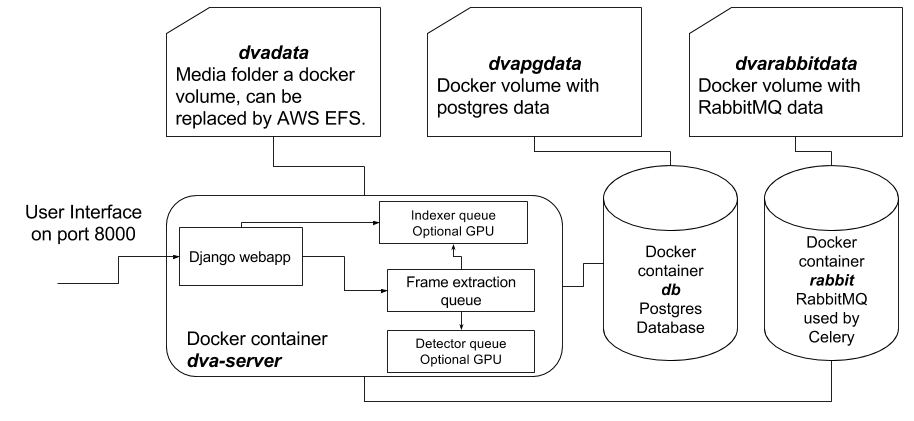
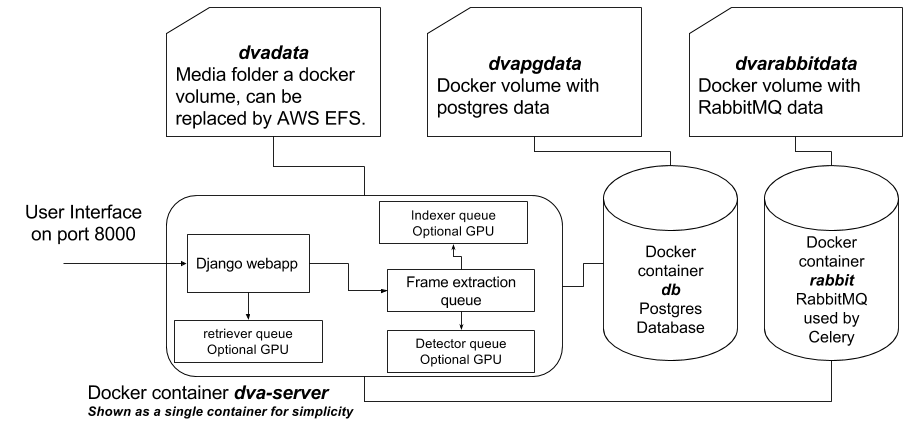
New seperate queue for retriever ensuring that queries are not "blocked" on videos or dataset being indexed  further Queries themself create a child video object allowing future queries to be queried against past queries if "required" However this is disabled by default.

diff --git a/templates/dvaapp/video_list.html b/templates/dvaapp/video_list.html
@@ -49,7 +49,7 @@
                 <tbody>
                 {% for v in video_list %}
                     <tr>
-                        <td>{%  if v.dataset %}Dataset {% else %}Video {% endif %}</td>
+                        <td>{%  if v.dataset and v.query %} Query {% elif v.dataset %} Dataset {% else %}Video {% endif %}</td>
                         <td>{{ v.name }} </td>
                         <td class="text-right">{{ v.length_in_seconds }} </td>
                         <td class="text-right">{{ v.frames }} </td>
@@ -57,7 +57,11 @@
                         <td class="text-right">{{ v.height }} </td>
                         <td class="text-right">{{ v.width }} </td>
                         <td class="text-center">{{ v.created }}</td>
-                        <td class="text-center"><a href="/videos/{{ v.pk }}">view</a></td>
+                        {% if v.query %}
+                            <td class="text-center"><a href="/queries/{{ v.parent_query.pk }}">view</a></td>
+                        {% else %}
+                            <td class="text-center"><a href="/videos/{{ v.pk }}">view</a></td>
+                        {% endif %}
                         <td>{%  if v.youtube_video %}<a href="{{ v.url }}" target="_blank">{{ v.url }}</a>{% endif %}</td>
                     </tr>
                 {% endfor %}

diff --git a/templates/status.html b/templates/status.html
@@ -120,10 +120,10 @@
     <div class="col-lg-6">
         <div class="box">
             <div class="box-header with-border">
-            <h3>Fab log</h3>
+            <h3>Retriever log</h3>
             </div>
             <div class="box-body">
-                <textarea style="width:100%;height:250px">{{ fab_log }}</textarea>
+                <textarea style="width:100%;height:250px">{{ retriever_log }}</textarea>
             </div>
         </div>
     </div>

diff --git a/dvaapp/views.py b/dvaapp/views.py
@@ -16,12 +16,22 @@ def search(request):
         query = Query()
         query.save()
         primary_key = query.pk
+        dv = Video()
+        dv.name = 'query_{}'.format(query.pk)
+        dv.dataset = True
+        dv.query = True
+        dv.parent_query = query
+        dv.save()
+        create_video_folders(dv)
         image_url = request.POST.get('image_url')
         image_data = base64.decodestring(image_url[22:])
         query_path = "{}/queries/{}.png".format(settings.MEDIA_ROOT,primary_key)
+        query_frame_path = "{}/{}/frames/0.png".format(settings.MEDIA_ROOT,dv.pk)
         with open(query_path,'w') as fh:
             fh.write(image_data)
-        result = query_by_image.apply_async(args=[primary_key],queue=settings.Q_INDEXER)
+        with open(query_frame_path,'w') as fh:
+            fh.write(image_data)
+        result = query_by_image.apply_async(args=[primary_key],queue=settings.Q_RETRIEVER)
         user = request.user if request.user.is_authenticated() else None
         query.task_id = result.task_id
         query.user = user
@@ -34,7 +44,6 @@ def search(request):
                     r['url'] = '/media/{}/frames/{}.jpg'.format(r['video_primary_key'],r['frame_index'])
                     results.append(r)
         return JsonResponse(data={'task_id':result.task_id,'primary_key':primary_key,'results':results})
-
 
 
 def index(request):
@@ -166,18 +175,23 @@ def status(request):
     context['query_count'] = Query.objects.count()
     context['events'] = TEvent.objects.all()
     context['detection_count'] = Detection.objects.count()
+
     try:
-        context['indexer_log'] = file("logs/qindexer.log").read()
+        context['indexer_log'] = file("logs/{}.log".format(settings.Q_INDEXER)).read()
     except:
         context['indexer_log'] = ""
     try:
-        context['detector_log'] = file("logs/qdetector.log").read()
+        context['detector_log'] = file("logs/{}.log".format(settings.Q_DETECTOR)).read()
     except:
         context['detector_log'] = ""
     try:
-        context['extract_log'] = file("logs/qextract.log").read()
+        context['extract_log'] = file("logs/{}.log".format(settings.Q_EXTRACTOR)).read()
     except:
         context['extract_log'] = ""
+    try:
+        context['retriever_log'] = file("logs/{}.log".format(settings.Q_RETRIEVER)).read()
+    except:
+        context['retriever_log'] = ""
     try:
         context['fab_log'] = file("logs/fab.log").read()
     except:

diff --git a/fabfile.py b/fabfile.py
@@ -104,9 +104,7 @@ def server():
 def start_server_container(test=False):
     local('sleep 60')
     migrate()
-    local('python utils.py startq extractor &')
-    local('python utils.py startq indexer &')
-    local('python utils.py startq detector &')
+    launch_queues(True)
     if test:
         ci()
     local('python manage.py runserver 0.0.0.0:8000')
@@ -123,9 +121,7 @@ def start_server_container_gpu(test=False):
     local("python manage.py collectstatic --no-input")
     local("chmod 0777 -R dva/staticfiles/")
     local("chmod 0777 -R dva/media/")
-    local('python utils.py startq extractor 2 &') # on GPU machines use more extractors
-    local('python utils.py startq indexer &')
-    local('python utils.py startq detector &')
+    launch_queues(True)
     if test:
         ci()
     local('supervisord -n')
@@ -165,10 +161,7 @@ def quick_test(detection=False):
     clean()
     create_super()
     local('python utils.py test')
-    local('python utils.py startq extractor &')
-    local('python utils.py startq indexer &')
-    if detection:
-        local('python utils.py startq detector &')
+    launch_queues(detection)
 
 @task
 def test_backup():
@@ -180,3 +173,11 @@ def test_backup():
 @task
 def create_super():
     local('echo "from django.contrib.auth.models import User; User.objects.create_superuser(\'akshay\', \'akshay@test.com\', \'super\')" | python manage.py shell')
+
+@task
+def launch_queues(detection=False):
+    local('python utils.py startq extractor &')
+    local('python utils.py startq indexer &')
+    local('python utils.py startq retriever &')
+    if detection:
+        local('python utils.py startq detector &')

diff --git a/utils.py b/utils.py
@@ -10,6 +10,7 @@ USAGE = """
 'python utils.py startq indexer'
 'python utils.py startq extractor 3'
 'python utils.py startq detector'
+'python utils.py startq retriever'
 'python utils.py backup'
 'python utils.py restore /path/to/backup_12354668.zip'
 """
@@ -22,9 +23,10 @@ if __name__ == '__main__':
     from dvaapp.models import Video
     from dvaapp.tasks import extract_frames, perform_indexing, perform_detection
     media_dir = settings.MEDIA_ROOT
-    Q_INDEXER = dva.settings.Q_INDEXER
-    Q_EXTRACTOR = dva.settings.Q_EXTRACTOR
-    Q_DETECTOR = dva.settings.Q_DETECTOR
+    Q_INDEXER = settings.Q_INDEXER
+    Q_EXTRACTOR = settings.Q_EXTRACTOR
+    Q_DETECTOR = settings.Q_DETECTOR
+    Q_RETRIEVER = settings.Q_RETRIEVER
     if len(sys.argv) == 1:
         print USAGE
     elif sys.argv[1] == 'startq':
@@ -39,6 +41,8 @@ if __name__ == '__main__':
             command = 'celery -A dva worker -l info -c {} -Q {} -n {}.%h -f logs/{}.log'.format(concurrency,Q_EXTRACTOR,Q_EXTRACTOR,Q_EXTRACTOR)
         elif sys.argv[2] == 'detector':
             command = 'celery -A dva worker -l info -c {} -Q {} -n {}.%h -f logs/{}.log'.format(1, Q_DETECTOR,Q_DETECTOR, Q_DETECTOR)
+        elif sys.argv[2] == 'retriever':
+            command = 'celery -A dva worker -l info -c {} -Q {} -n {}.%h -f logs/{}.log'.format(1, Q_RETRIEVER,Q_RETRIEVER,Q_RETRIEVER)
         else:
             raise NotImplementedError
         print command

diff --git a/dvaapp/models.py b/dvaapp/models.py
@@ -4,7 +4,14 @@ from django.db import models
 from django.contrib.auth.models import User
 
 
-# Create your models here.
+class Query(models.Model):
+    created = models.DateTimeField('date created', auto_now_add=True)
+    results = models.BooleanField(default=False)
+    task_id = models.CharField(max_length=100,default="")
+    results_metadata = models.TextField(default="")
+    user = models.ForeignKey(User, null=True)
+
+
 class Video(models.Model):
     name = models.CharField(max_length=100,default="")
     length_in_seconds = models.IntegerField(default=0)
@@ -20,6 +27,8 @@ class Video(models.Model):
     detections = models.IntegerField(default=0)
     url = models.TextField(default="")
     youtube_video = models.BooleanField(default=False)
+    query = models.BooleanField(default=False)
+    parent_query = models.ForeignKey(Query,null=True)
 
 
 class Frame(models.Model):
@@ -36,12 +45,6 @@ class FrameLabel(models.Model):
     source = models.TextField()
 
 
-class Query(models.Model):
-    created = models.DateTimeField('date created', auto_now_add=True)
-    results = models.BooleanField(default=False)
-    task_id = models.CharField(max_length=100,default="")
-    results_metadata = models.TextField(default="")
-    user = models.ForeignKey(User, null=True)
 
 
 class Detection(models.Model):

diff --git a/dvaapp/migrations/0022_auto_20170225_2011.py b/dvaapp/migrations/0022_auto_20170225_2011.py
@@ -1,0 +1,26 @@
+# -*- coding: utf-8 -*-
+# Generated by Django 1.10.5 on 2017-02-25 20:11
+from __future__ import unicode_literals
+
+from django.db import migrations, models
+import django.db.models.deletion
+
+
+class Migration(migrations.Migration):
+
+    dependencies = [
+        ('dvaapp', '0021_auto_20170223_0708'),
+    ]
+
+    operations = [
+        migrations.AddField(
+            model_name='video',
+            name='parent_query',
+            field=models.ForeignKey(null=True, on_delete=django.db.models.deletion.CASCADE, to='dvaapp.Query'),
+        ),
+        migrations.AddField(
+            model_name='video',
+            name='query',
+            field=models.BooleanField(default=False),
+        ),
+    ]

diff --git a/dva/settings.py b/dva/settings.py
@@ -36,7 +36,7 @@ CELERY_RESULT_SERIALIZER = 'json'
 Q_EXTRACTOR = 'qextract'
 Q_INDEXER = 'qindexer'
 Q_DETECTOR = 'qdetector'
-
+Q_RETRIEVER = 'qretriever'
 
 # Application definition
 

diff --git a/readme.md b/readme.md
@@ -28,6 +28,7 @@ by the vision research community.
 - [x] [YOLO 9000 (naive implementation, gets reloaded in memory for every video)](http://pjreddie.com/darknet/yolo/)
 - [x] Google inception using Tensorflow
 - [ ] [SSD Multibox 500](https://github.com/balancap/SSD-Tensorflow)
+- [ ] [Text detection models](http://www.robots.ox.ac.uk/~vgg/research/text/)
 - [ ] [Pytorch Squeezenet](http://pytorch.org/docs/torchvision/models.html)
 - [ ] [Openface (via a connected container)](https://github.com/cmusatyalab/openface)
 - [ ] [Soundnet (requires extracting mp3 audio)](http://projects.csail.mit.edu/soundnet/)
